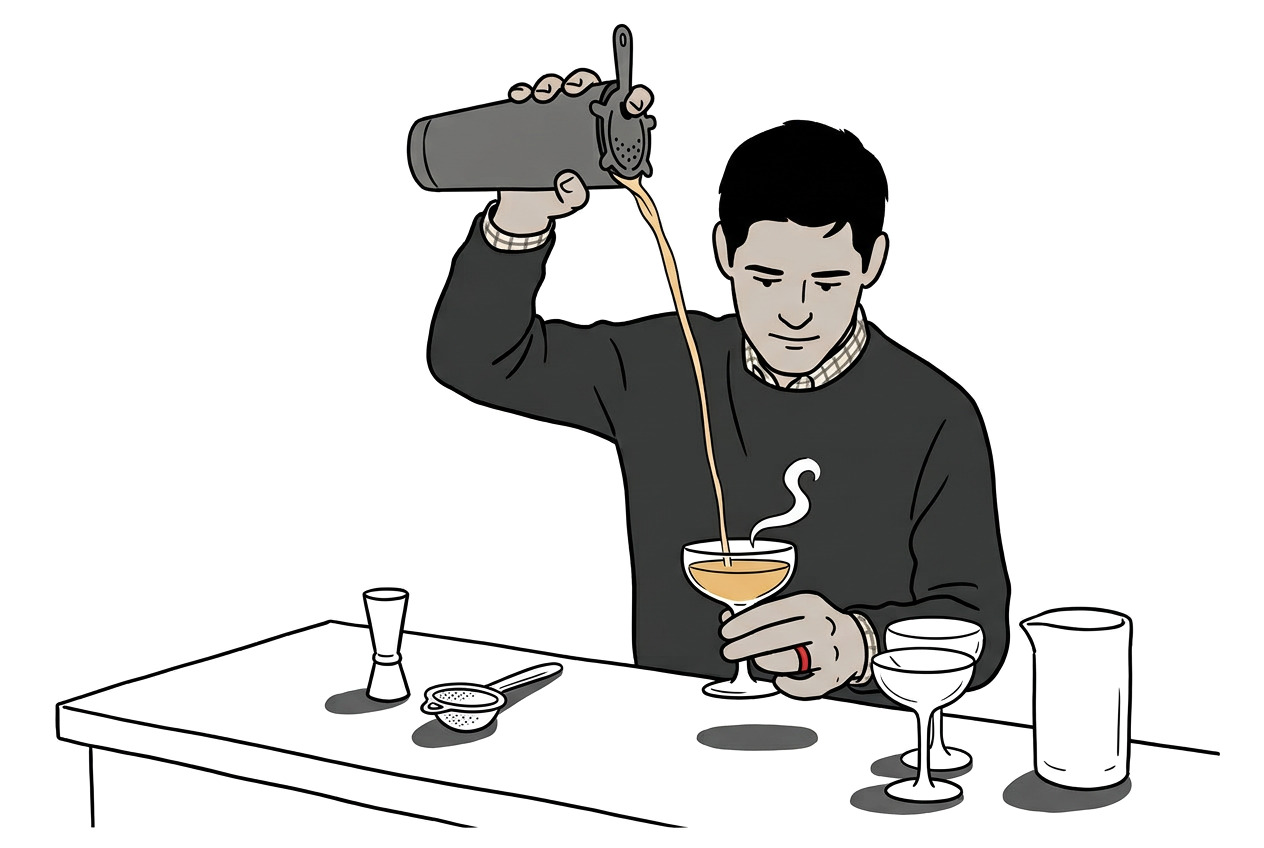
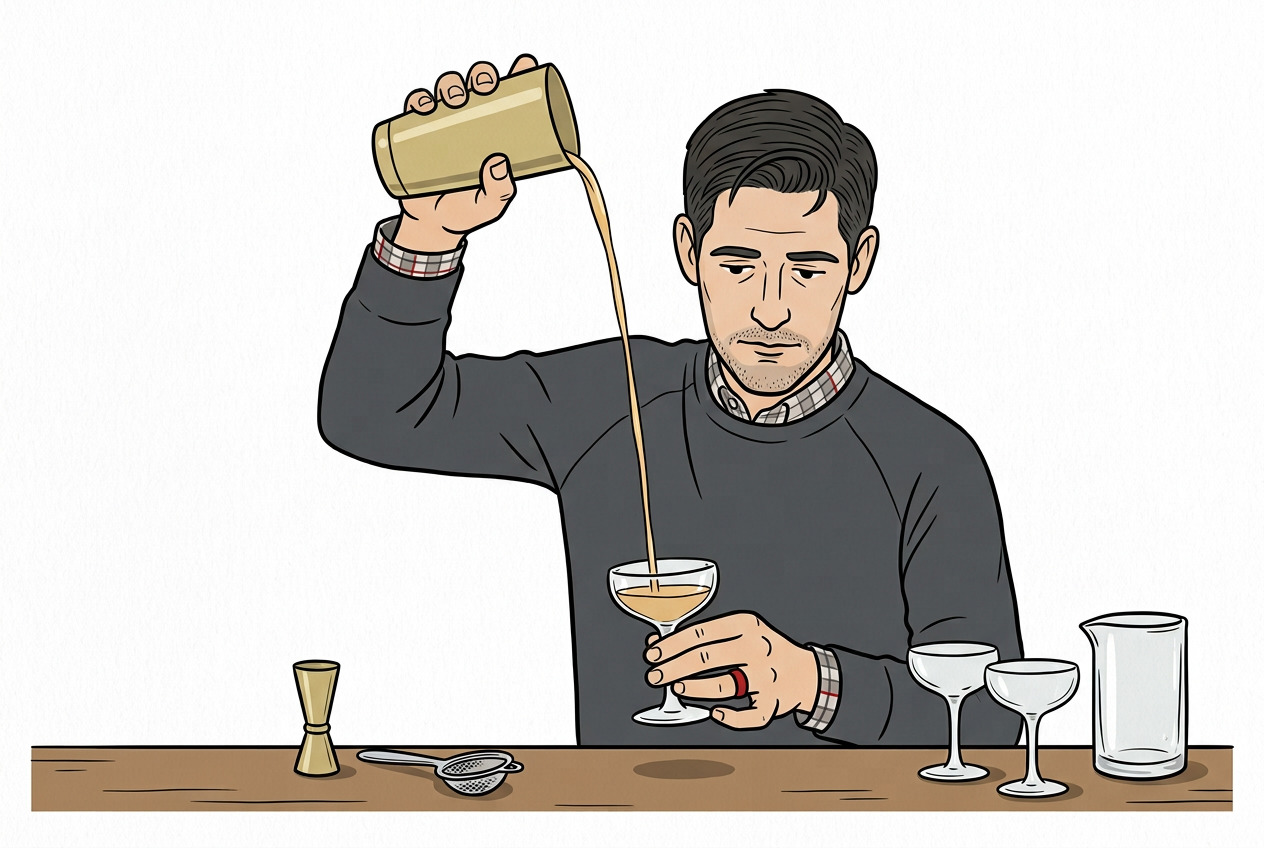
Redraw the Sensory and Dave Arnold cards from their photographs
Sensory is the dark room again: near-black teal ground, the neon-traced
board on its pedestal, ice under the waterline, the boards receding behind.
Dave Arnold now pours for real, with a counter that has an edge and hands
that close round the tin and the coupe.

diff --git a/README.md b/README.md
@@ -260,9 +260,9 @@ judged by (obvious resemblance, one hand across the series) and names the four f
 
 **Still open after this pass.** In order: (1) ~~the four wrong-hand files above~~ — done 29 October 2026, all
 four redrawn thin and light in the hand of their own set, and `illo-figure-kratena.jpg` re-framed from
-768 × 1376 to the series' 848 × 1264; (2) the two case cards that still read as the wrong place — `illo-case-sensory-talalay.jpg` and
-`illo-case-dave-arnold.jpg`, redrawn from their photographs in the case-card hand; (3) the two portraits
-that are still another person — `illo-figure-zarkov.jpg` and `illo-figure-talalay.jpg`; (4) the physics
+768 × 1376 to the series' 848 × 1264; (2) ~~the two case cards that still read as the wrong place — `illo-case-sensory-talalay.jpg` and
+`illo-case-dave-arnold.jpg`~~ — done 29 October 2026, both redrawn from their photographs in the case-card
+hand; (3) the two portraits that are still another person — `illo-figure-zarkov.jpg` and `illo-figure-talalay.jpg`; (4) the physics
 list in `presentation/build/illustration-audit.md` §10.4 — a support line or a hand each for
 `illo-m03-senses`, `illo-m07-fnb`, `illo-m08-venture`, `illo-m09-found`, `illo-m10-mockup`, the Jiro card
 and the Sips foreground; (5) one unifying pass over the line weight of the whole series once the list is

diff --git a/presentation/build/illustration-audit.md b/presentation/build/illustration-audit.md
@@ -422,9 +422,11 @@ that is now right (El Copitas in the cases, Redzepi's wardrobe, Narzi's dark hai
 
 ### 10.5 Order of work
 
-1. Redraw the four wrong-hand files in Hand A (§10.2) — this is the drift the author sees first.
-2. Fix the two ○ case cards (Sensory, Dave Arnold) from their photographs, keeping the Hand B case
-   style.
+1. ~~Redraw the four wrong-hand files in Hand A (§10.2)~~ — done 29 October 2026.
+2. ~~Fix the two ○ case cards (Sensory, Dave Arnold)~~ — done 29 October 2026: Sensory is the dark room
+   again (near-black teal ground, the neon-traced board on its pedestal, the glass with ice under the
+   waterline, the three boards receding behind) and Dave Arnold has a real pour, a counter with an edge,
+   hands that close round the tin and the coupe, and the long face and receding hairline of the photograph.
 3. Redraw the two ○ portraits (Zarkov, Talalay) from their photographs in Hand A.
 4. Repair the physics list in §10.4 file by file; `illo-m03`, `illo-m07`, `illo-m08`, `illo-m09` and
    `illo-m10` need only a support line, a table edge or one hand redrawn.
